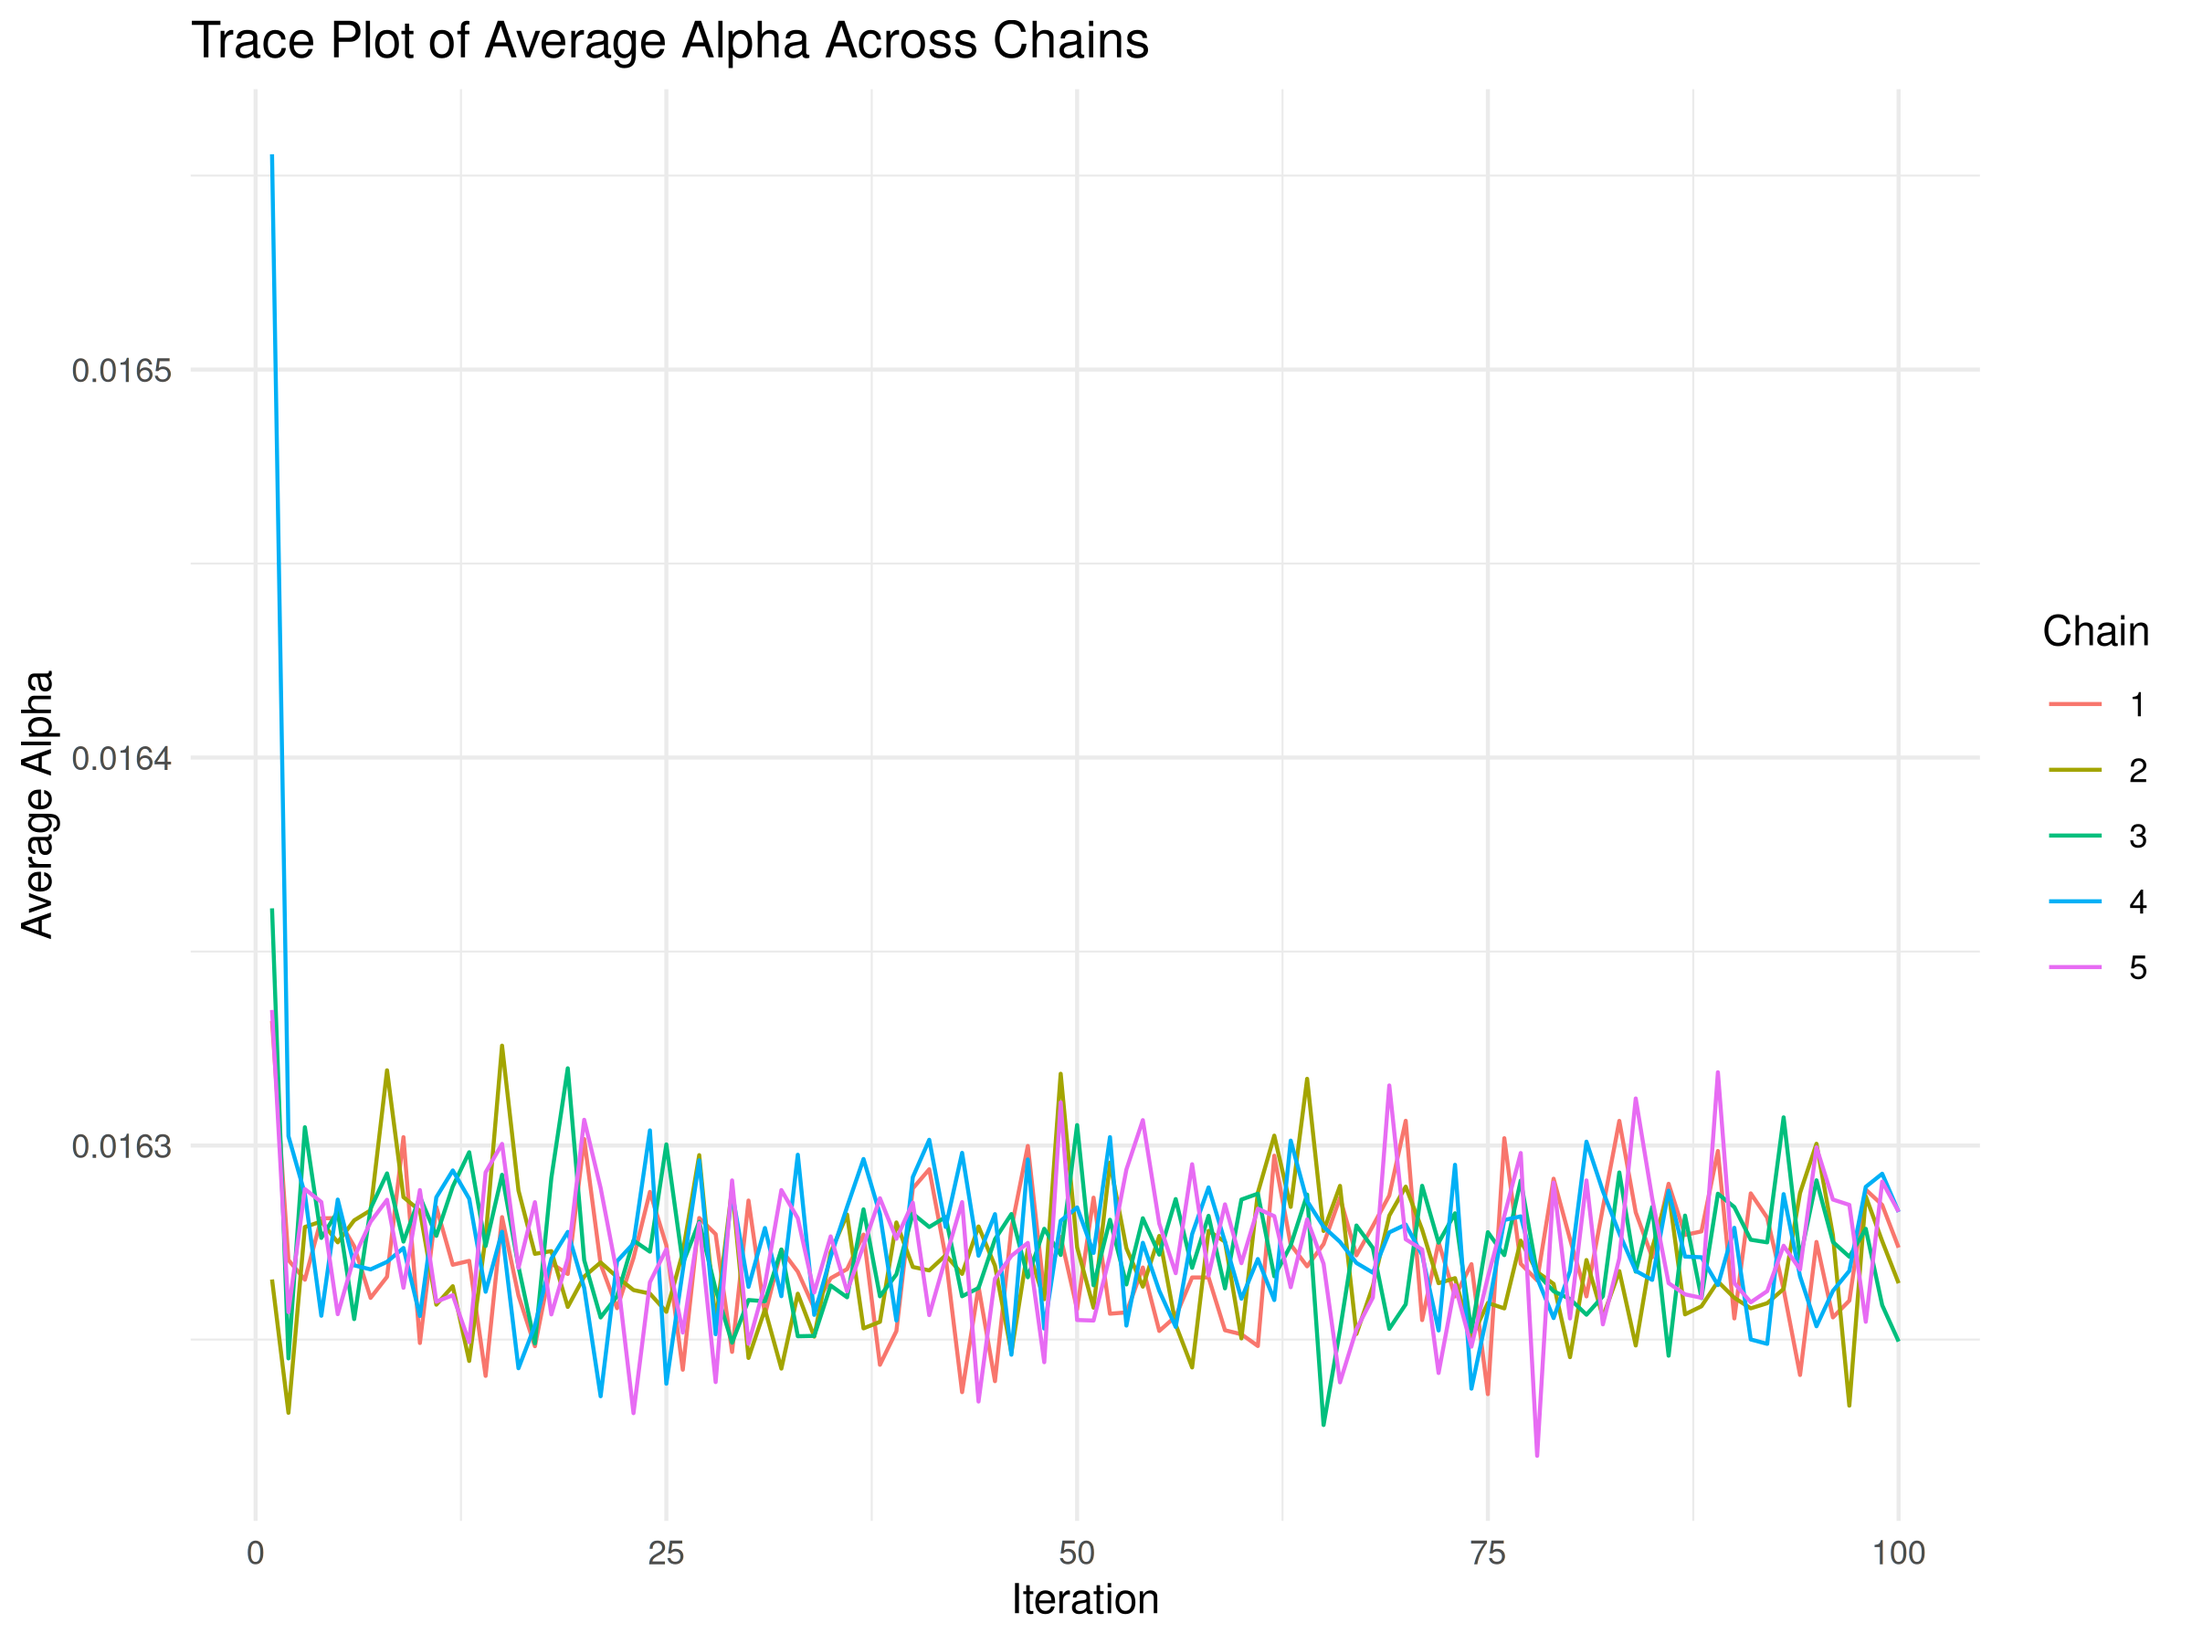
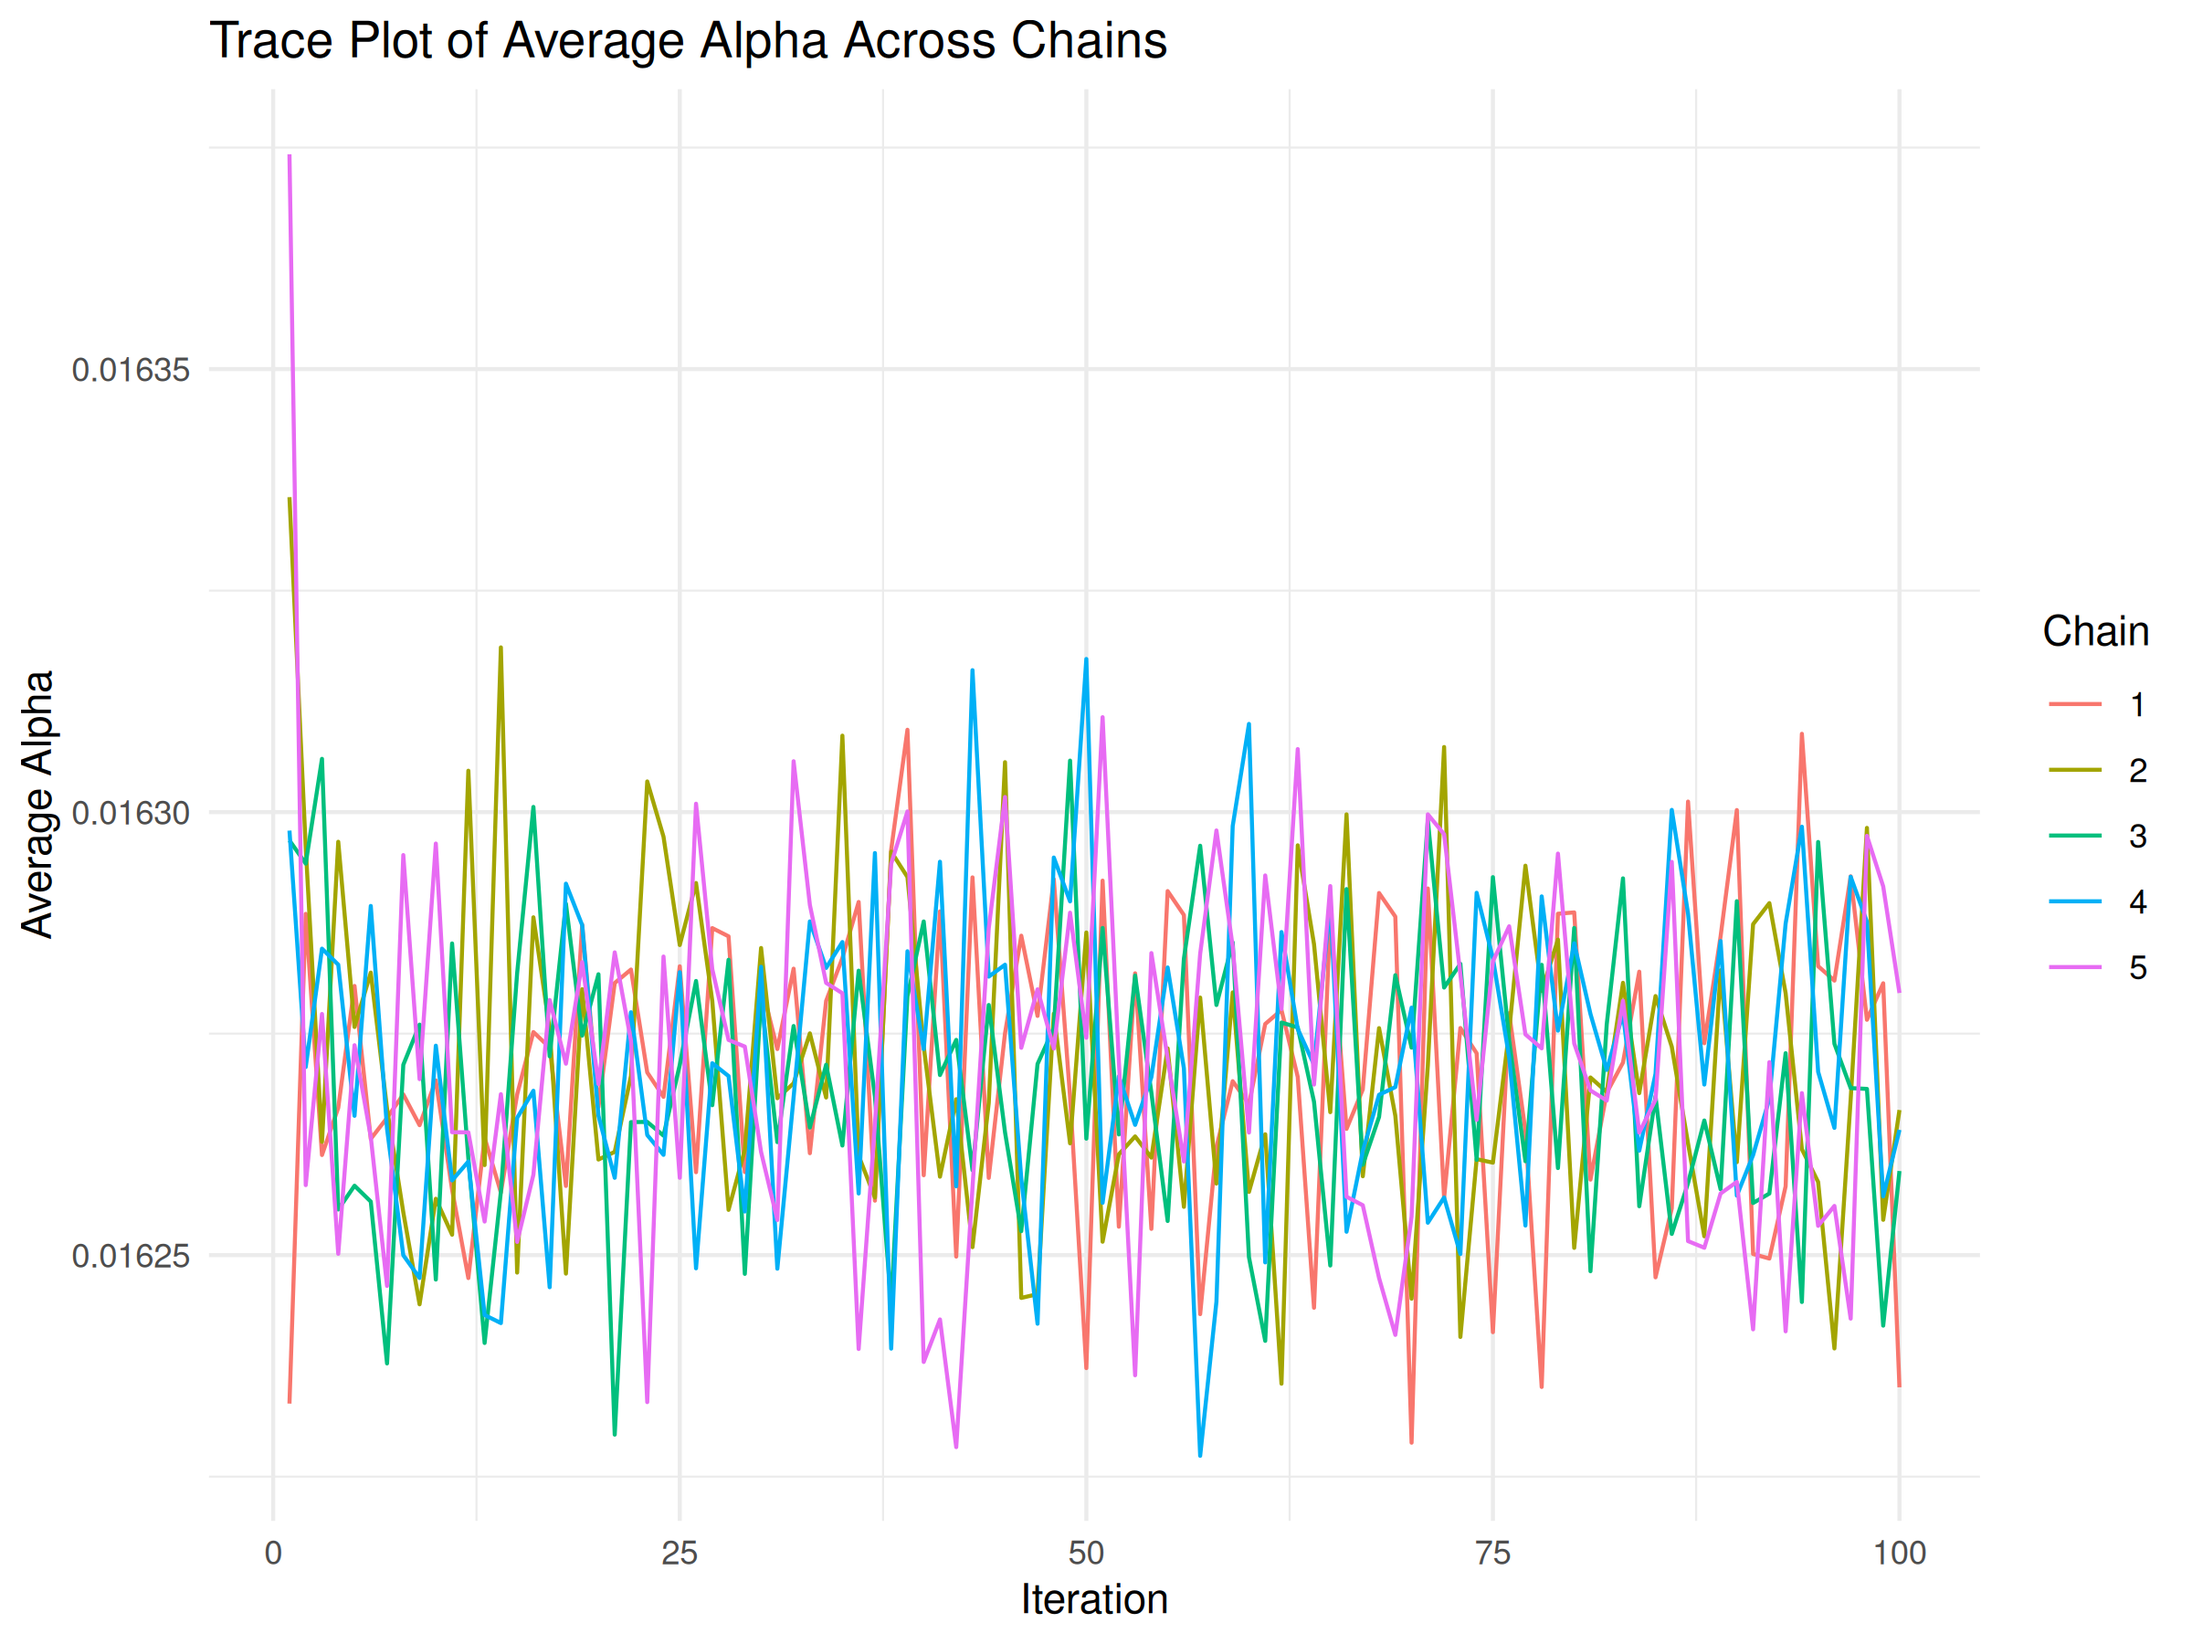
described second model

diff --git a/README.md b/README.md
@@ -17,7 +17,7 @@ You can read more about the structure of the dataset [here](https://upworthy.nat
 Our hierarchical model analyzes click-rates.
 
 <!--
-TODO: add a flow chart to visualize the hiearchical model
+TODO: add a flow chart to visualize the hierarchical model
 -->
 
 Specifically, we model the number of clicks for each headline as a Binomial outcome, with the probability of a click varying by test/story.
@@ -27,6 +27,9 @@ Every story isn't equally interesting, no matter how good the headline is.
 This analysis is similar to what was done as [an example in class by the researcher who released the dataset](https://github.com/natematias/design-governance-experiments/blob/master/2020/lecture-code/lecture-17-meta-analysis.R.ipynb).
 His analysis was using a mixed effects model and frequentist methodologies.
 We adapt this analysis into a Bayesian framework.
+
+The goal of hierarchical models are to have priors in a Bayesian framework that are informed by the data.
+They allow us to get shrinkage without having to choose priors.
 
 ## Data processing (`data_processing.py`)
 We prepare clickthrough data for a hierarchical Bayesian analysis of headline performance across different stories.
@@ -42,27 +45,27 @@ We prepare clickthrough data for a hierarchical Bayesian analysis of headline pe
   - `data/y_matrix.csv`: Matrix of click counts
   - `data/n_matrix.csv`: Matrix of impression counts
 
-## Initial model (`normal.R`)
-In our initial approach, we modeled the data as Binomial-normal-half-Cauchy.
+## Binomial-Normal (`normal.R`)
+In our initial approach, we modeled the data as Binomial-Normal-Half-Cauchy.
 
 ### Binomial likelihood
 For headline $j$ for story $i$:
 ```math
-\text{clicks}_{ij} \sim \text{binomial}(\text{impressions}_{ij}, p_{ij})
+y_{ij} \sim \text{Binomial}(n_{ij}, p_{ij})
 ```
 A success is a click out of the total impressions (trials).
 
-The logit of $p_{ij$ is the test-specific log-odds parameter ($\theta_j$).
+The logit of $p_{ij}$ is the story-specific log-odds parameter ($\theta_i$).
 ```math
-\text{logit}(p_{ij}) = theta_j \text{, where } p_{ij} = \frac{e^{theta_j}}{1+e^{theta_j}}
+\text{logit}(p_{ij}) = theta_i \text{, where } p_{ij} = \frac{e^{theta_i}}{1+e^{theta_i}}
 ```
 The probability that a user clicks is $p_{ij}$.
 It needs to be bounded between 0 and 1, thus the logit.
 
 ### Prior
-The click-through rate for each story in log-odds ($\theta_j$) is defined by the population normal:
+The click-through rate for each story in log-odds ($\theta_i$) is defined by the population normal:
 ```math
-\theta_j \sim \mathcal{N}(\mu, \tau^2)
+\theta_i \sim \mathcal{N}(\mu, \tau^2)
 ```
 The log odds can range $-\infty$ to $\infty$, so using a normal prior makes sense.
 It also makes it computationally reasonable.
@@ -91,9 +94,9 @@ For $\tau$, we chose:
 - a scale parameter of 5 to allow moderate variability in log-odds, realistic differences across tests
 
 ### Method
-We then used five chains of 10,000 steps of Gibbs sampling to iteratively update $\theta_j$ using the observed clicks, impressions, and current values of $\mu$ and $\tau$, $\mu$ using the current estimates of $\theta_j$, and $\tau$ using the spread of $\theta_j$ around $\mu$.
+We then used five chains of 10,000 steps of Gibbs sampling to iteratively update $\theta_i$ using the observed clicks, impressions, and current values of $\mu$ and $\tau$, $\mu$ using the current estimates of $\theta_i$, and $\tau$ using the spread of $\theta_i$ around $\mu$.
 
-We collected the posterior means of $\theta_j$, $\mu$ and $\tau$, and transformed them back to probabilities using the logistic function.
+We collected the posterior means of $\theta_i$, $\mu$ and $\tau$, and transformed them back to probabilities using the logistic function.
 
 ### Results
 Our results showed:
@@ -115,6 +118,56 @@ As such, this could affect results.
 
 Additionally, with click through rates as low as they are, the approach to handling non-negative probabilities by adding epsilon might artificially inflate probabilities in a significant way.
 
-## Future work
-Another possible approach to this dataset is a change point analysis.
-Additional research on the setting the data was collected in would be necessary in order to surmise if it's reasonable to expect a change point in this data.
+## Beta-Binomial model (`beta.R`)
+In our final approach, we modeled the data as Gamma-Gamma-Beta-Binomial.
+
+### Binomial likelihood
+We again model clicks, for headline $j$ and story $i$:
+```math
+y_{ij} \sim \text{Binomial}(n_{ij}, p_{ij})
+```
+There are $i*j$ total binomial likelihoods, one for each row in the dataset.
+
+### Headline level
+At the headline level, we have $i*j$ total beta distributions as priors for all the $p_{ij}$s.
+```math
+p_{ij} \sim \text{beta}(\alpha_{ij}, \beta_{ij})
+```
+This is modeling our uncertainty over how likely headlines are to get clicked.
+The best headline will often have the highest click-through rate, but with low sample sizes, that isn't necessarily the case.
+
+### Story level
+At the story level, we have $2i$ total gamma distributions as hyperpriors on $\alpha_{ij}$ and $\beta_{ij}$.
+There are two for each story, and model which story is more likely to get clicked.
+We use gamma distributions because $\alpha_{ij}$s and $\beta{ij}$s have to be positive.
+
+```math
+\alpha_i \sim \text{gamma}(A_i, C_i)
+\beta_i \sim \text{gamma}(B_i, D_i)
+```
+
+### Population level
+At the population level, we have four total gamma distributions as hyperhyperpriors on the hyperparameters for the gamma hyperpriors: two gamma distributions for $A$ and $B$ (the first inputs to the gamma hyperpriors) and two gamma distributions for $C$ and $D$ (the second inputs to the gamma hyperpriors).
+We again use gamma distributions because $A$, $B$, $C$, and $D$ have to be positive.
+
+```math
+A \sim \text{gamma}(x_1, x_2) 
+B \sim \text{gamma}(x_3, x_4) 
+C \sim \text{gamma}(x_5, x_6) 
+D \sim \text{gamma}(x_7, x_8) 
+```
+
+We chose the eight hyperhyperhyperparameter $x$s as non-informative $x=1$.
+All other priors are informative priors, but they are informed by the data rather than our prior knowledge.
+
+### Results
+First, a trace plot showing convergence in the mean $\alpha$ across the stories.
+This is a contrived variable, but it allows us to look at a single measure across the five chains.
+<img src=combined_trace_plot.png/>
+
+Next, a heat map of the clickthrough rates in the first chain by stories as the chain progresses.
+<img src=heatmap_clickthrough_rates.png/>
+
+To look at if a difference in story makes a difference in the clickthrough rate, we check the variance of the mean clickthrough rates across stories: $0.0001507662$.
+
+So, no? Or there's something wrong with the code. Impossible to say. ...Thanks for reading.
